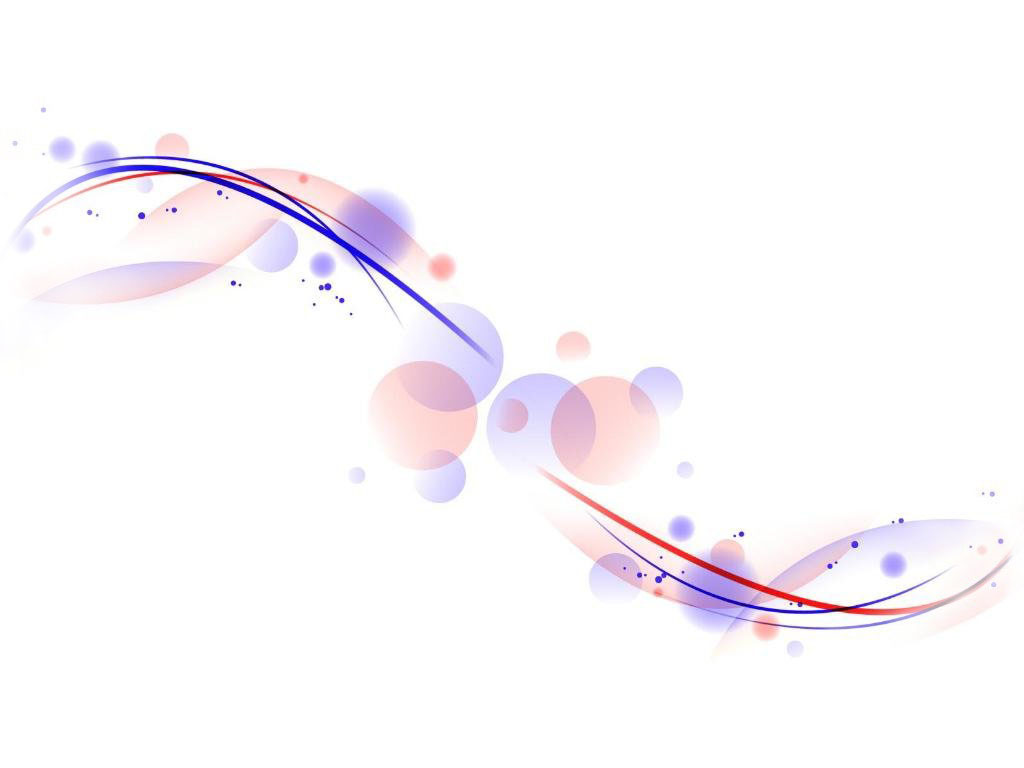
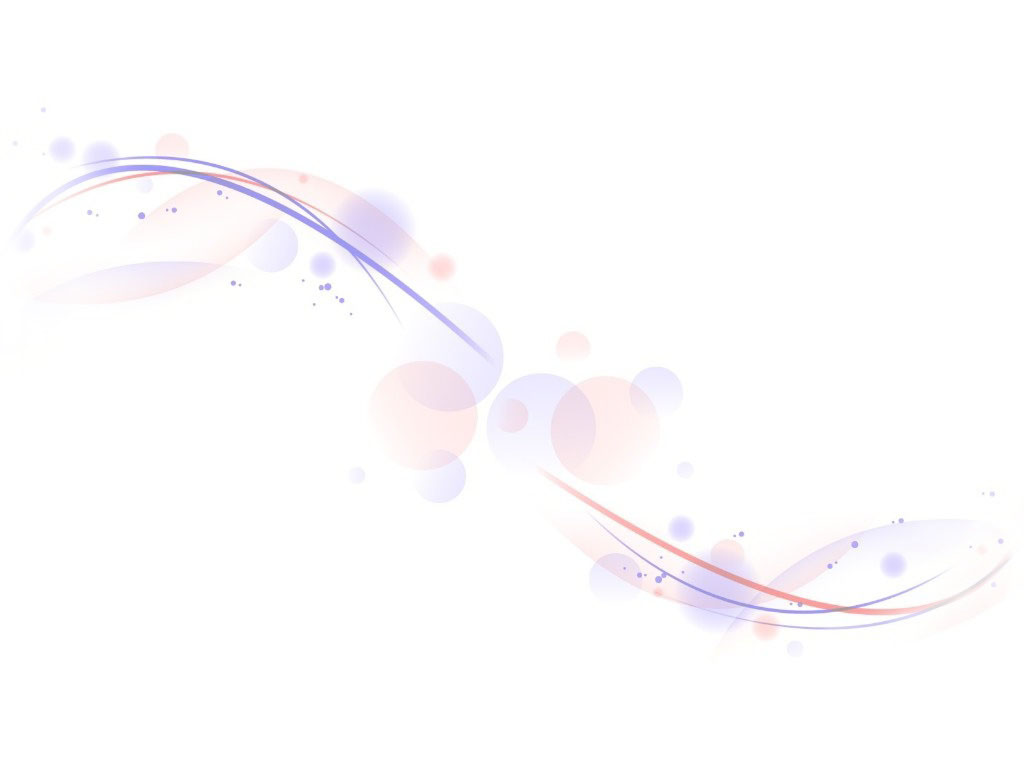
fixed user profile; changed wallpaper

diff --git a/src/gui/dlg_user_profile.cpp b/src/gui/dlg_user_profile.cpp
@@ -51,6 +51,9 @@ DlgUserProfile::DlgUserProfile(QWidget *parent, Network *param1) : QDialog(paren
     createGui();
     createSignals();
 
+    setMaximumWidth(0);
+    setMaximumHeight(0);
+
     accessManager = new QNetworkAccessManager;
     QObject::connect(accessManager, SIGNAL(finished(QNetworkReply*)), this, SLOT(avatarFinished(QNetworkReply*)));
 }
@@ -146,8 +149,8 @@ void DlgUserProfile::createGui()
     label_nick->setAlignment(Qt::AlignCenter);
     label_nick->setStyleSheet("font-weight:bold;");
     mainLayout = new QVBoxLayout();
-    mainLayout->setSizeConstraint(QLayout::SetFixedSize);
-    mainLayout->setMargin(0);
+    mainLayout->setMargin(5);
+    mainLayout->setSizeConstraint(QLayout::SetMinimumSize);
     mainLayout->addWidget(label_nick);
     mainLayout->addWidget(topWidget);
     mainLayout->addWidget(agesexWidget);

diff --git a/src/core/core.cpp b/src/core/core.cpp
@@ -88,7 +88,7 @@ void Core::createSettings()
     settings.setValue("debug", strDebug);
 
     // default settings
-    settings.setValue("version", "1.1.1.947");
+    settings.setValue("version", "1.1.1.948");
     settings.setValue("logged", "off");
     settings.setValue("busy", "off");
     settings.setValue("away", "off");
